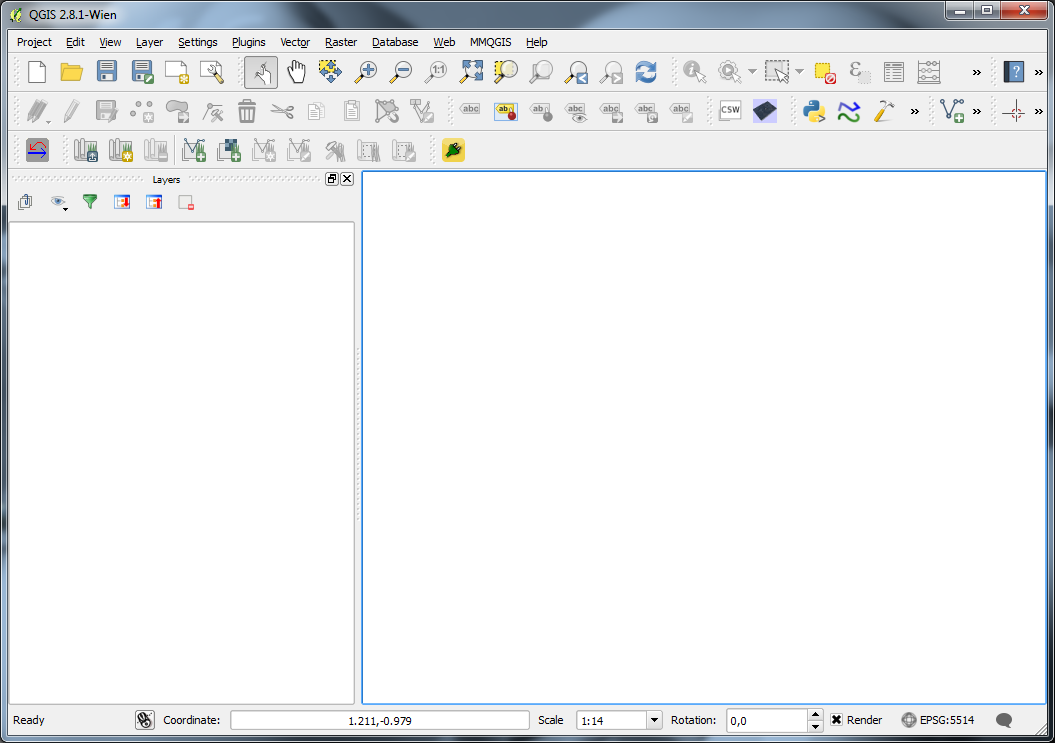
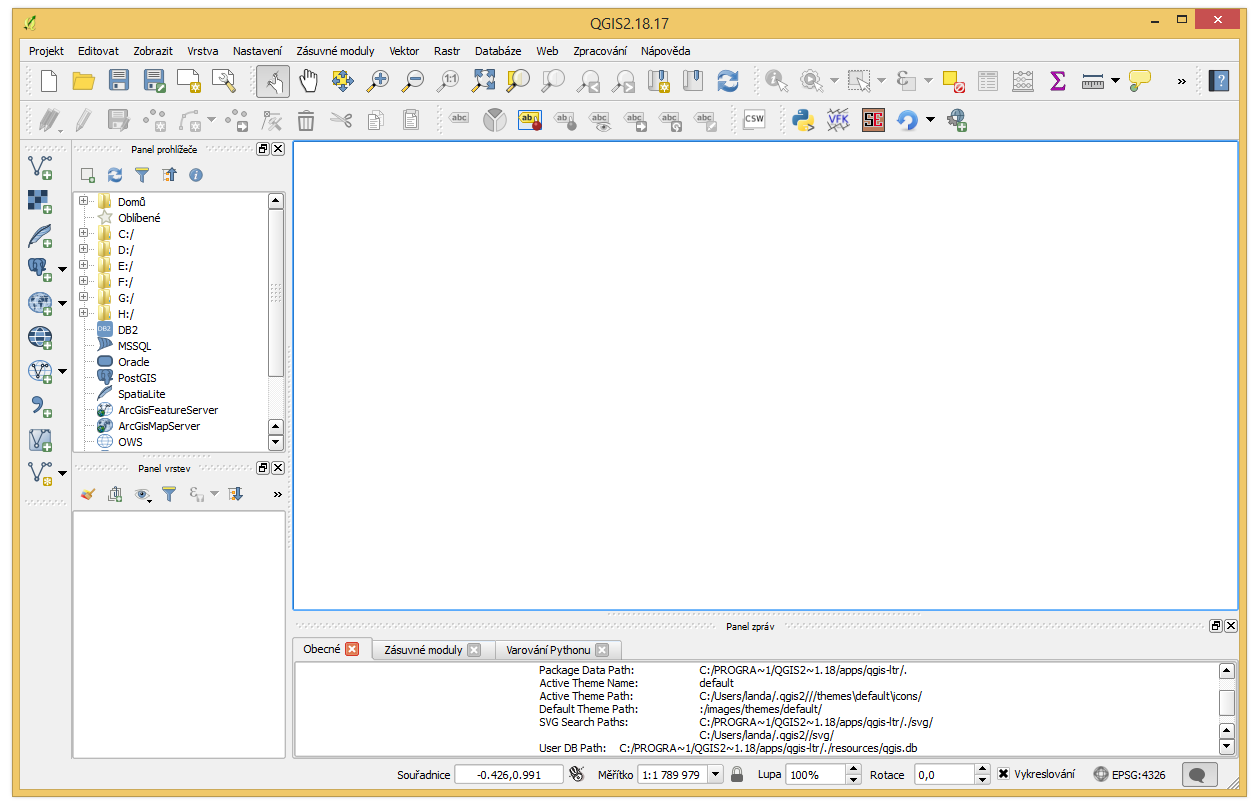
update qgis screenshot to 2.18

Changed region(s): [[0.0, 0.0, 1.0, 1.0]]

diff --git a/intro/prvni_kroky.rst b/intro/prvni_kroky.rst
@@ -17,11 +17,12 @@ je možné jej spustit a začít okamžitě pracovat.
 Spuštění systému QGIS
 =====================
 
-Úspěšně nainstalovaný systém by měl být dostupný z hlavní nabídky operačního systému.
+Úspěšně nainstalovaný systém by měl být dostupný z hlavní nabídky
+operačního systému.
 
 .. raw:: latex
 
-	 \newpage
+   \newpage
 
 .. figure:: images/linux_start.png
 
@@ -40,7 +41,7 @@ Spuštění systému QGIS
    jednoduchým zadáním názvu programu.
              
    .. code-block:: bash
-		
+
       qgis
 
 Po spuštění programu se objeví standardní pracovní rozhraní systému
@@ -57,23 +58,21 @@ přizpůsobuje dle aktuálního nastavení funkčnosti. Popis jednotlivých
 
 .. noteadvanced::
 
-                Pokud máte rozpracované projekty v konkrétní verzi a
-                chcete vyskoušet novou verzi, tak není nutné stávajíci
-                verzi odinstalovat.
+   Pokud máte rozpracované projekty v konkrétní verzi a chcete
+   vyskoušet novou verzi, tak není nutné stávajíci verzi odinstalovat.
                 
-                Jednotlivé verze jsou schopné pracovat vedle sebe.
-                Navíc jsou schopné přebírat nastavení. To například
-                znamená, že pokud používáte určité pluginy, tak budou
-                okamžitě dostupné i v nové verzi. Platí to i zpětně,
-                když přidáte funkcionalitu v nové verzi, tak je možné
-                ji použít i ve starší verzi (platí pro nástroje
-                kompatibilní pro nainstalované verze).
+   Jednotlivé verze jsou schopné pracovat vedle sebe.  Navíc jsou
+   schopné přebírat nastavení. To například znamená, že pokud
+   používáte určité pluginy, tak budou okamžitě dostupné i v nové
+   verzi. Platí to i zpětně, když přidáte funkcionalitu v nové verzi,
+   tak je možné ji použít i ve starší verzi (platí pro nástroje
+   kompatibilní pro nainstalované verze).
                 
-                .. figure:: images/qgis_more_versions.png
-                   :class: small
-                   :scale-latex: 40
+   .. figure:: images/qgis_more_versions.png
+      :class: small
+      :scale-latex: 40
                             
-                   Výběr z vícero verzí QGIS v MS Windows.
+      Výběr z vícero verzí QGIS v MS Windows.
 
 .. index::
    single: QGIS projekt
@@ -87,10 +86,10 @@ nastavení se ukládá do tzv. projektu. Projekt systému QGIS je
 standardní soubor s příponou ``.qgs``. Uložení do projektu umožňuje
 opětovné načtení všech dat i s kompletním nastavením systému.
 
-.. noteadvanced:: QGIS projekt je ukládán jako ``.xml``
-   soubor. Vzhledem k tomu, že se jedná o textový formát, lze jej
-   editovat i mimo samotný QGIS. Je však nutné znát strukturu formátu, a
-   proto tento postup lze doporučit pro opravdu pokročilé uživatele a
-   spíše v extrémních případech.
+.. noteadvanced:: QGIS projekt je ukládán jako XML soubor. Vzhledem k
+   tomu, že se jedná o textový formát, lze jej editovat i mimo samotný
+   QGIS. Je však nutné znát strukturu formátu, a proto tento postup
+   lze doporučit pro opravdu pokročilé uživatele a spíše v extrémních
+   případech.
 
 .. todo:: pridat ikonky ?
